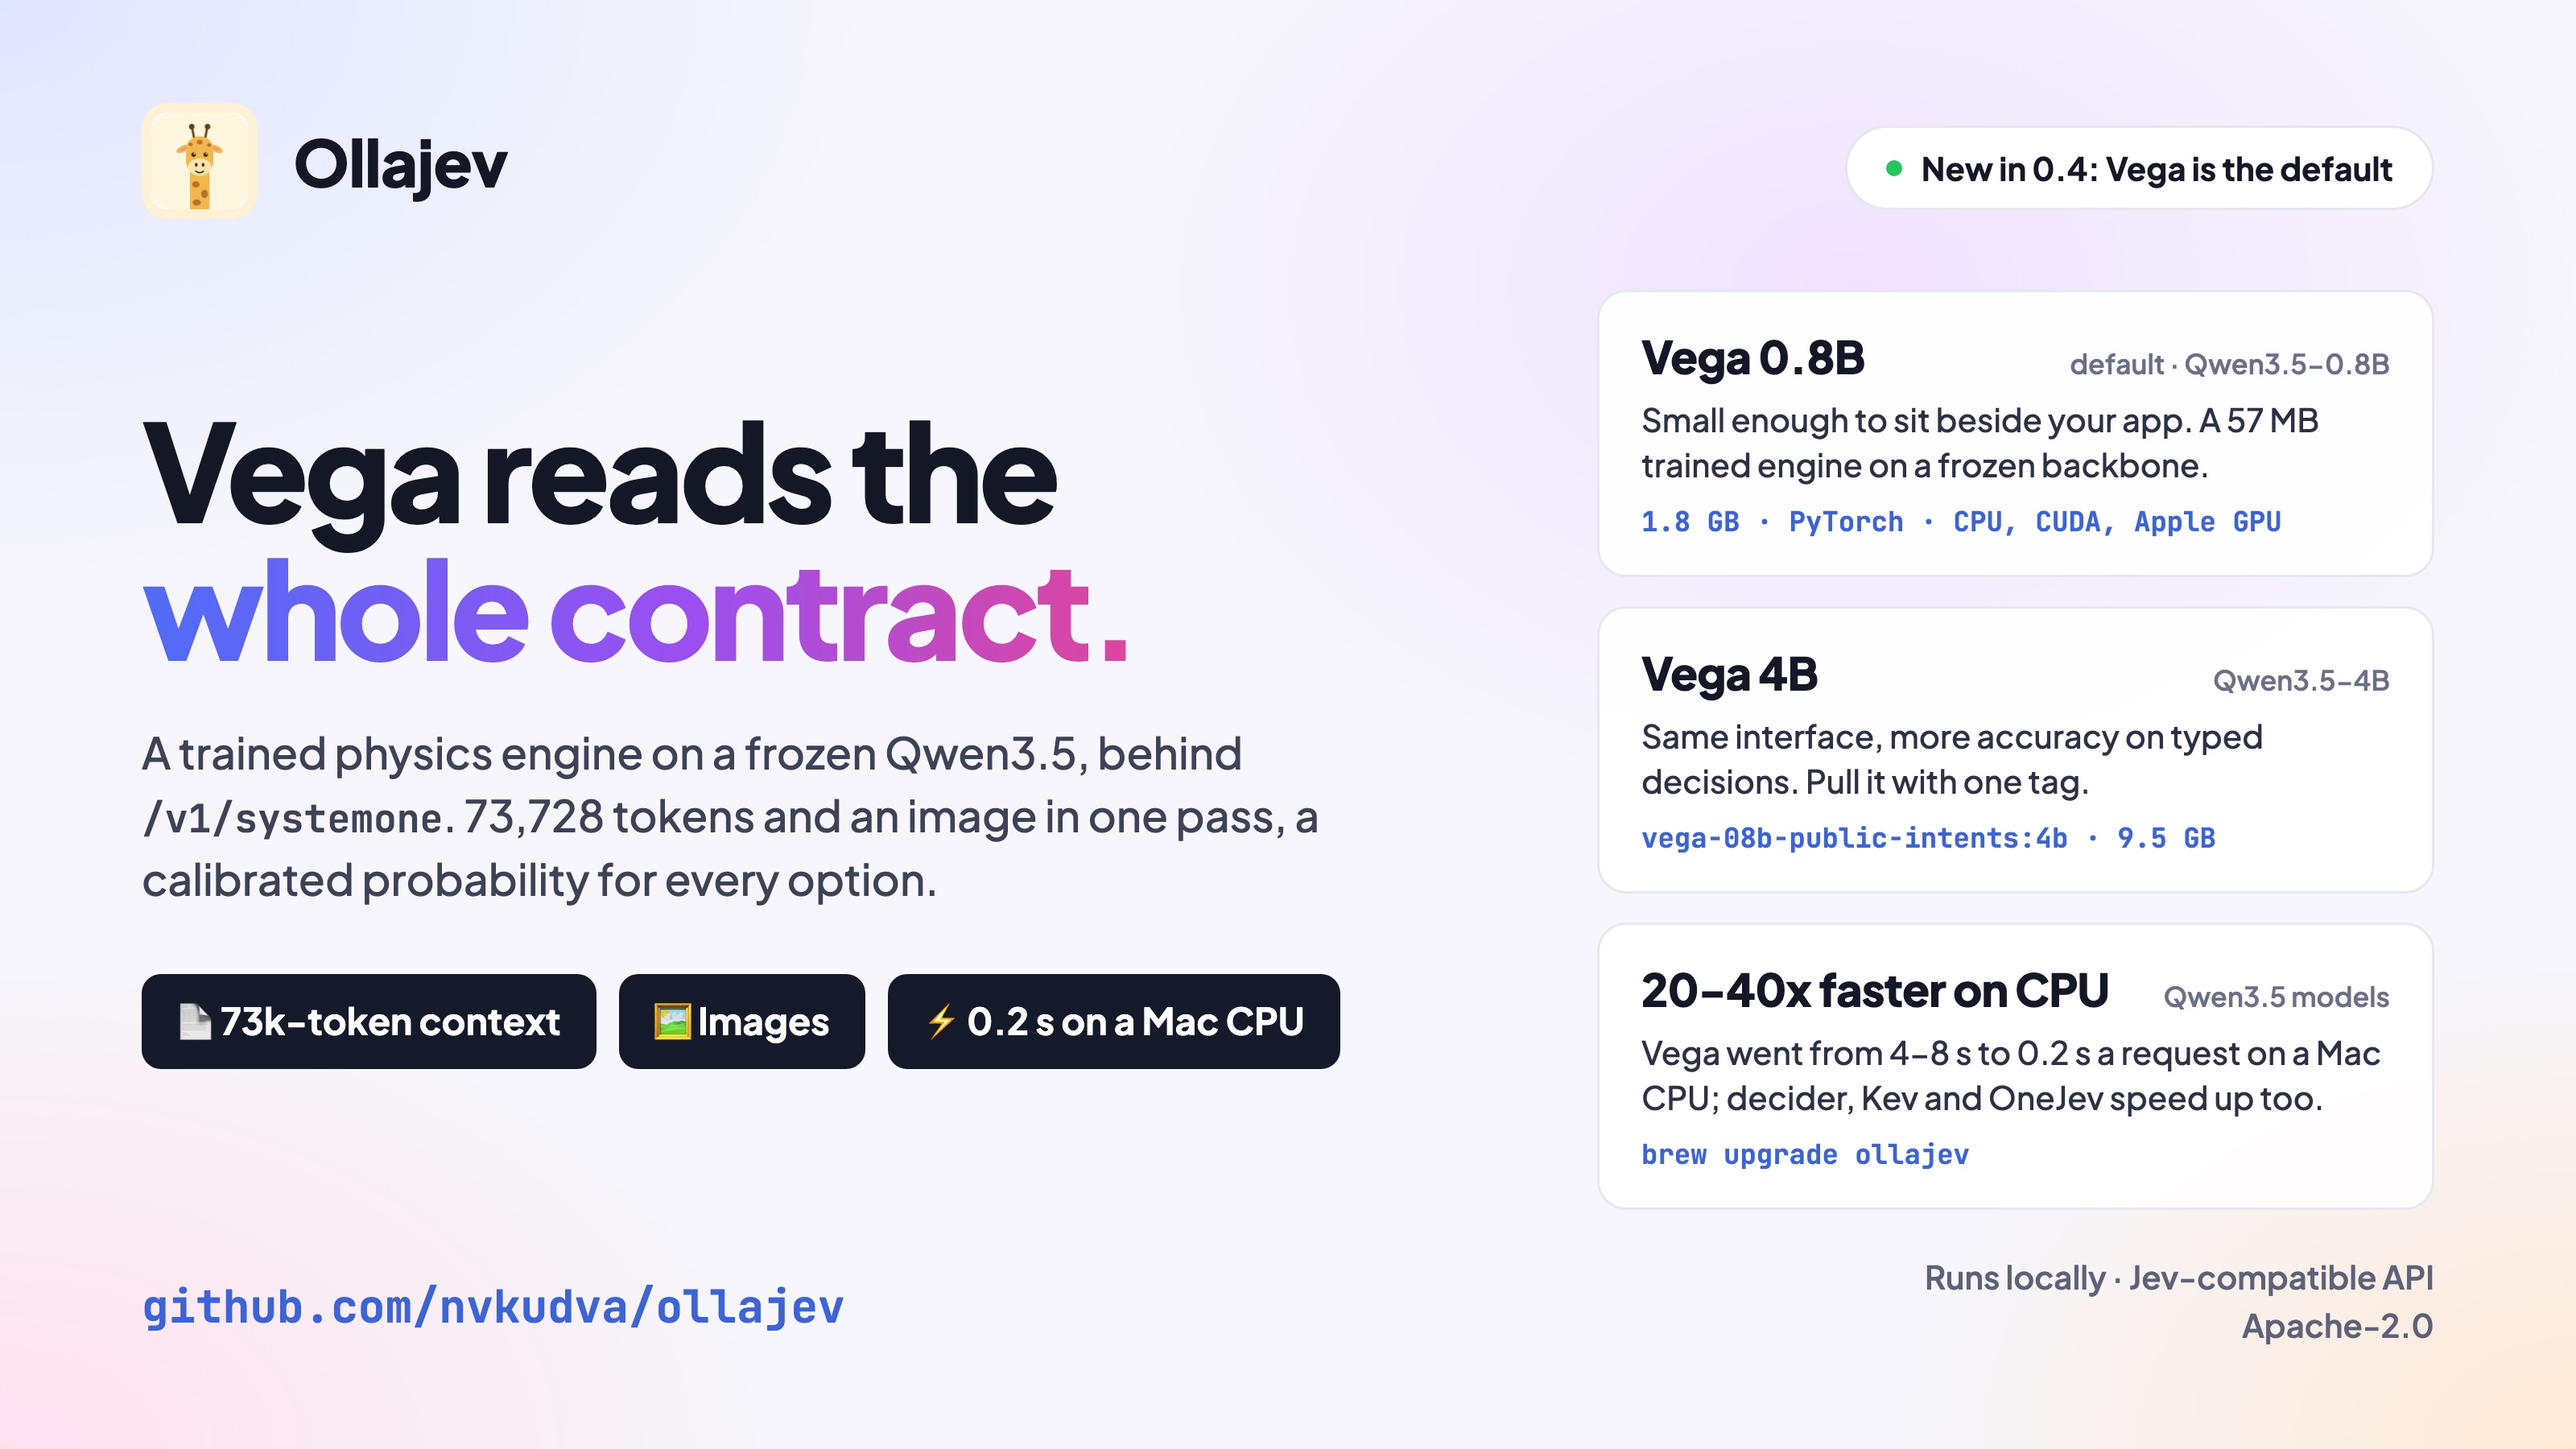
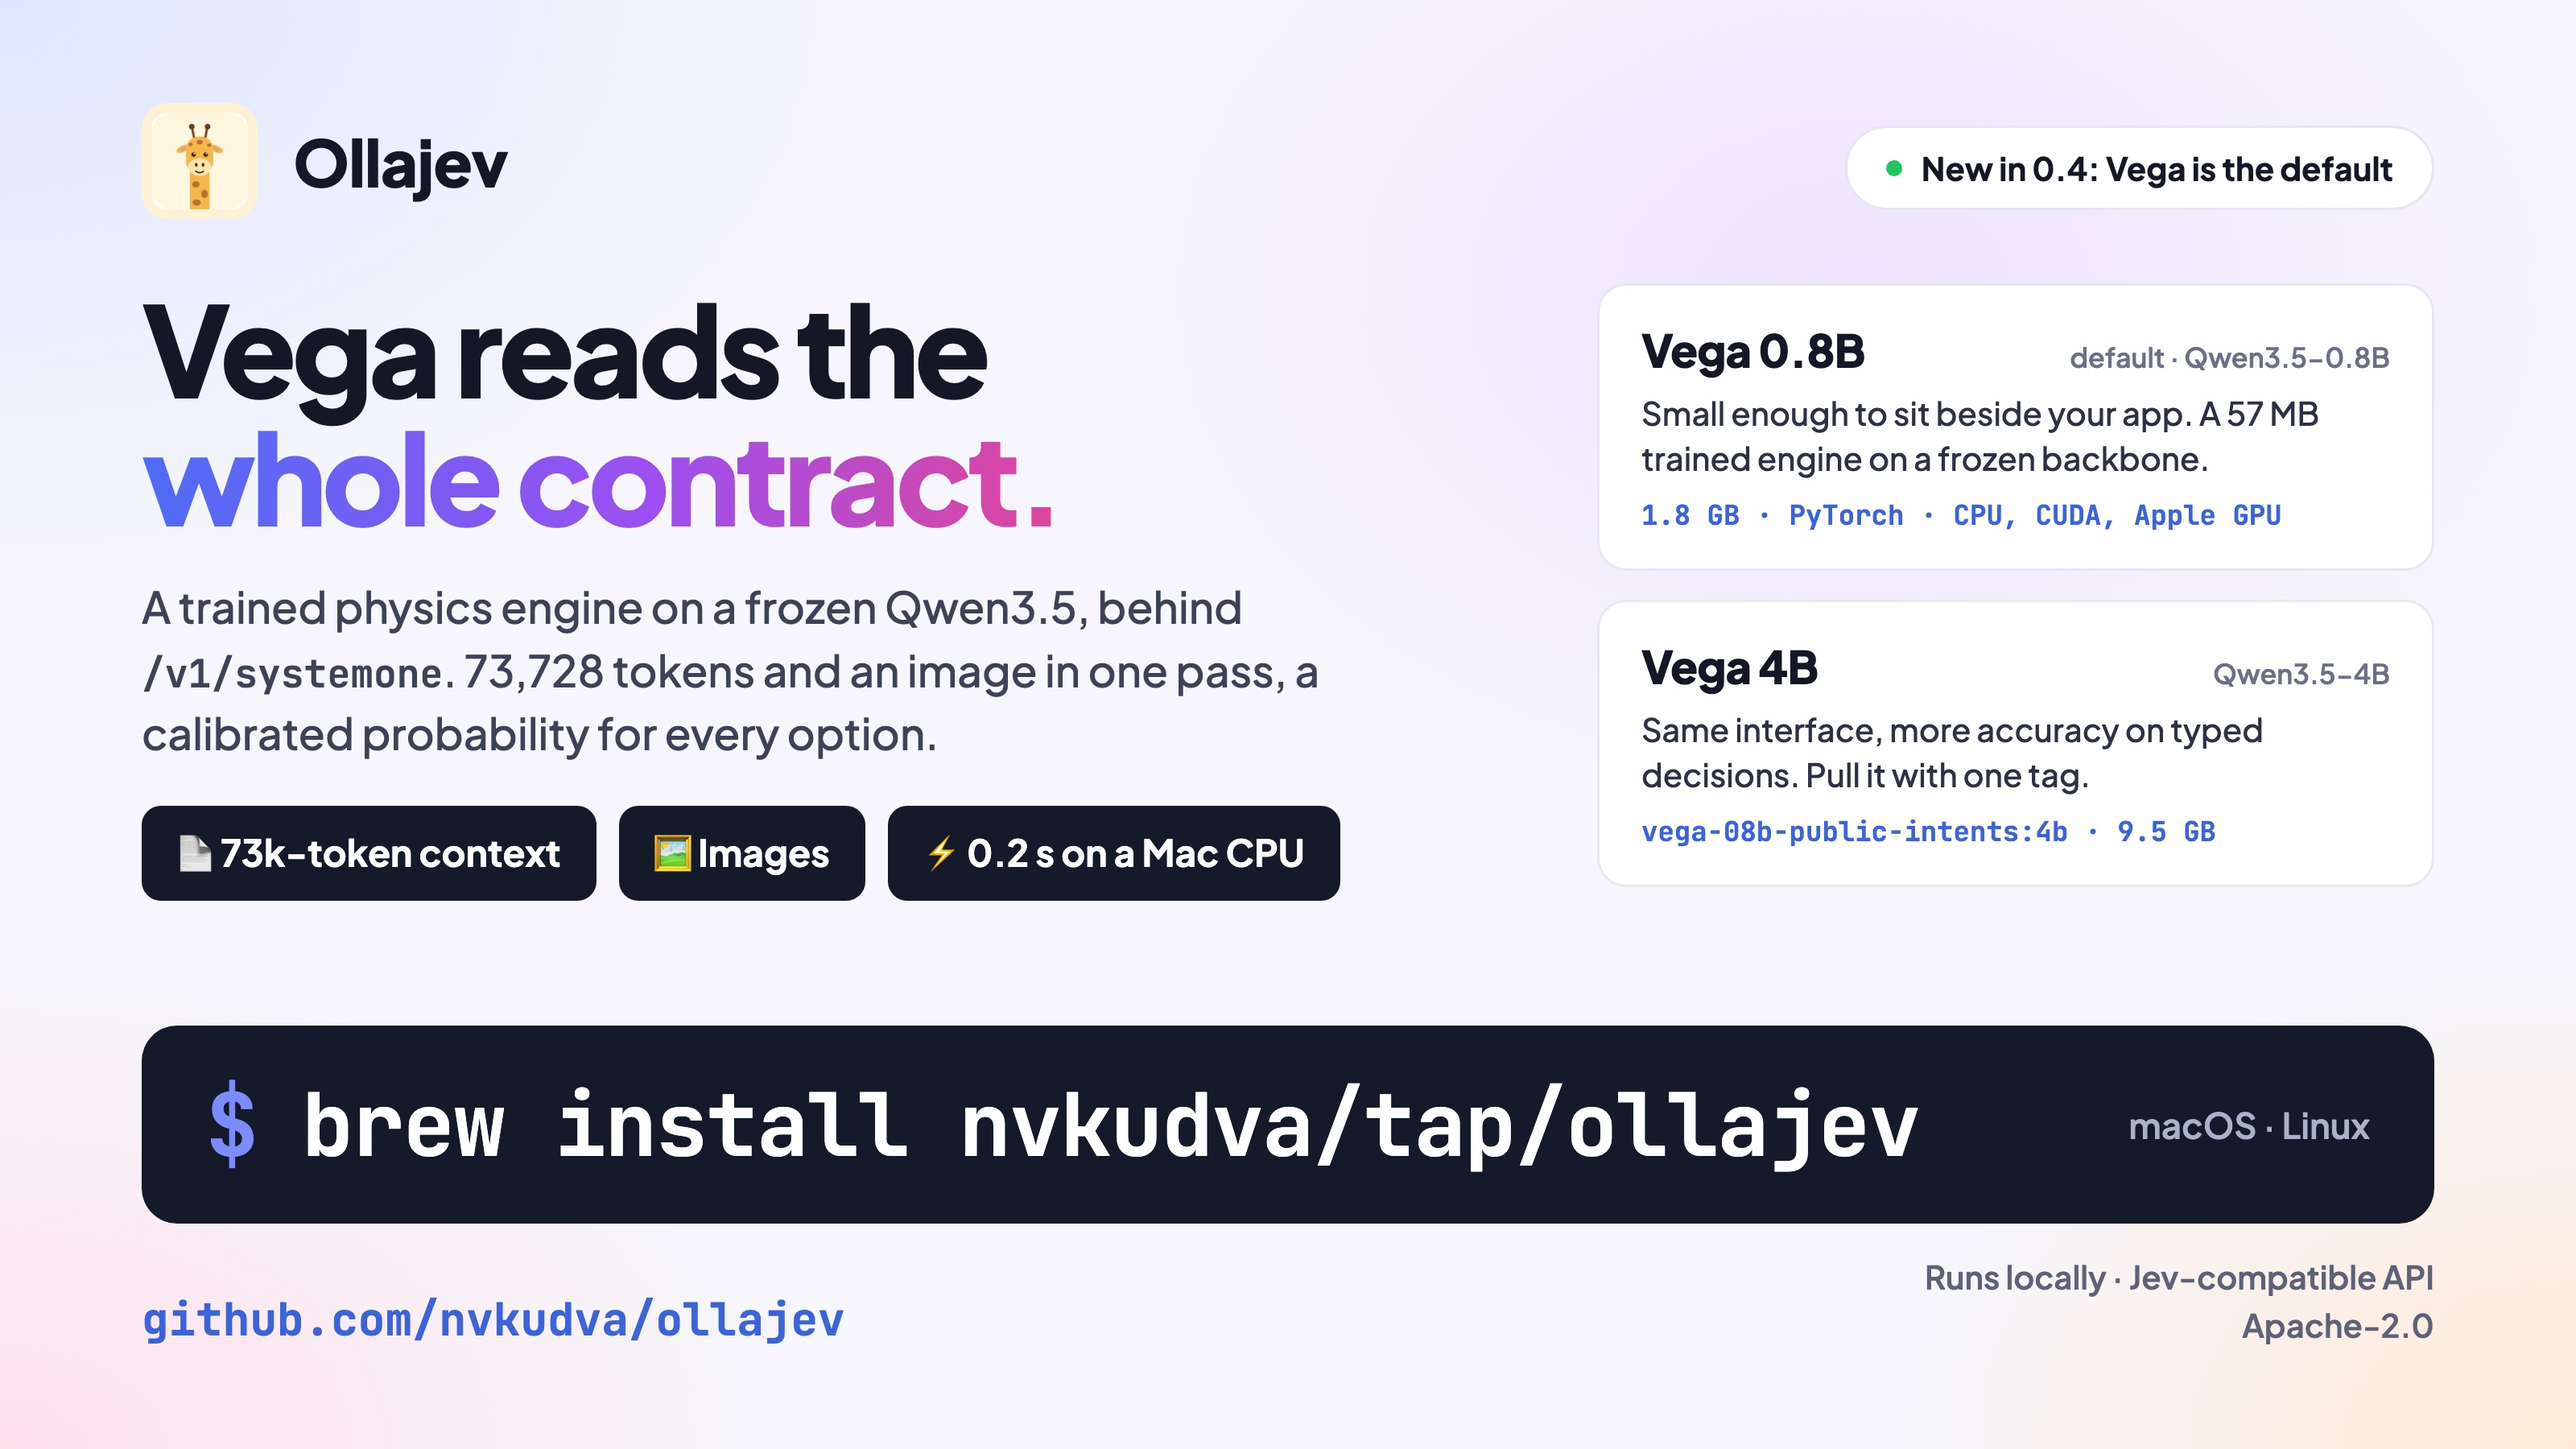
docs(poster): drop the CPU card; show the brew install command large
Claude-Session: https://claude.ai/code/session_0187pUTAZjCm4AQeWJKahLo7

diff --git a/docs/index.html b/docs/index.html
@@ -389,7 +389,7 @@ const SHOTS = {
   vega: {
     src: "vega-poster.jpg",
     width: 3200, height: 1800,
-    alt: "Ollajev: Vega reads the whole contract. New in 0.4, Vega is the default: a trained physics engine on a frozen Qwen3.5, 73,728 tokens and an image in one pass. Cards for Vega 0.8B (default, 1.8 GB), Vega 4B (9.5 GB, the :4b tag) and 20-40x faster CPU inference for Qwen3.5 models.",
+    alt: "Ollajev: Vega reads the whole contract. New in 0.4, Vega is the default: a trained physics engine on a frozen Qwen3.5, 73,728 tokens and an image in one pass. Cards for Vega 0.8B (default, 1.8 GB) and Vega 4B (9.5 GB, the :4b tag), and the install command: brew install nvkudva/tap/ollajev.",
   },
   multimodal: {
     src: "multimodal-poster.jpg",
@@ -611,7 +611,6 @@ function Hero() {
 
 const NEW_IN_04 = [
   ["Vega, the new default", "nandakishorm/vega-08b-public-intents", html`A small trained physics engine on a frozen Qwen3.5, with a 73,728-token context and image input. 0.8B is 1.8 GB; add <code>:4b</code> for the 9.5 GB 4B.`],
-  ["20-40x faster on the CPU", "Qwen3.5 on PyTorch", html`Vega, decider, Intern-Decision, OneJev, Kev and JevK5 skip a slow CPU convolution: Vega 0.8B went from 4-8 s to 0.2 s a request.`],
   ["Errors that say what to do", "422 with guidance", html`A text-only model sent an image names your downloaded models that read images; idle models are unloaded when a new one needs the memory.`],
 ];
 

diff --git a/README.md b/README.md
@@ -7,7 +7,7 @@ Run System One decision models from Hugging Face on your machine, behind the sam
 
 <p align="center"><a href="https://nvkudva.github.io/ollajev/">Product page</a> · <a href="#install">Install</a> · <a href="#quick-start">Quick start</a> · <a href="#models">Models</a> · <a href="#api">API</a></p>
 
-<p align="center"><a href="https://nvkudva.github.io/ollajev/#new"><img src="https://raw.githubusercontent.com/nvkudva/ollajev/main/docs/vega-poster.jpg" alt="Ollajev 0.4: Vega reads the whole contract. Vega 0.8B is the new default, Vega 4B is one tag away, and Qwen3.5 models run 20-40x faster on the CPU" width="720"></a></p>
+<p align="center"><a href="https://nvkudva.github.io/ollajev/#new"><img src="https://raw.githubusercontent.com/nvkudva/ollajev/main/docs/vega-poster.jpg" alt="Ollajev 0.4: Vega reads the whole contract. Vega 0.8B is the new default and Vega 4B is one tag away. Install with brew install nvkudva/tap/ollajev" width="720"></a></p>
 
 > **New in 0.4:** [Vega](https://huggingface.co/nandakishorm/vega-08b-public-intents) is the default model: a
 > trained physics engine on a frozen Qwen3.5, in 0.8B (1.8 GB) and 4B (`:4b`, 9.5 GB) sizes, with a 73,728-token
